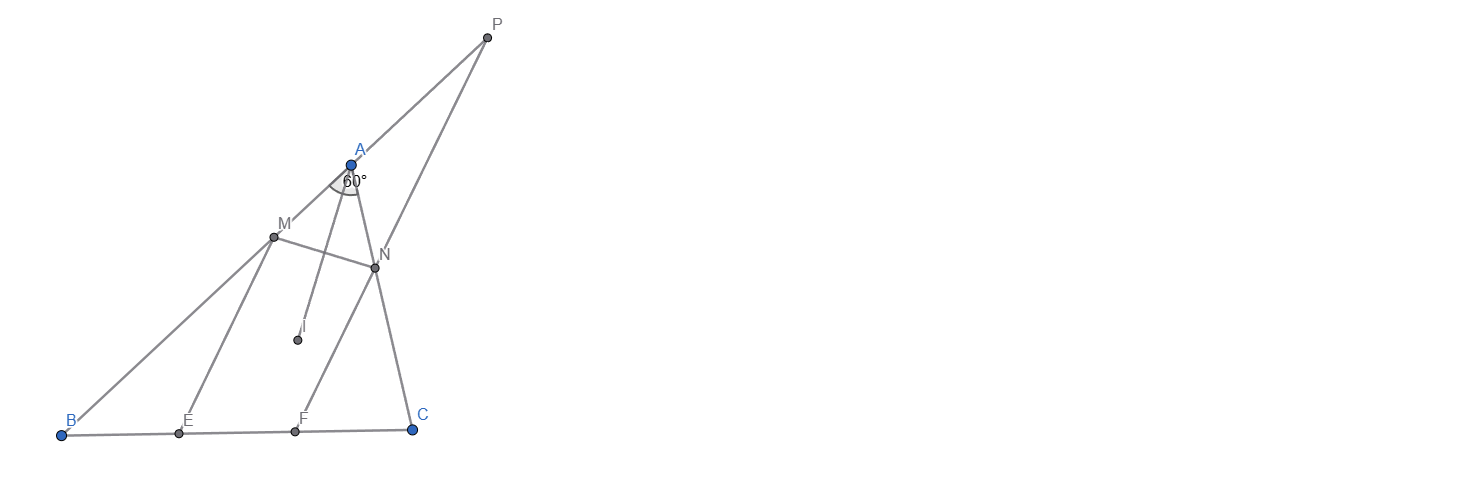
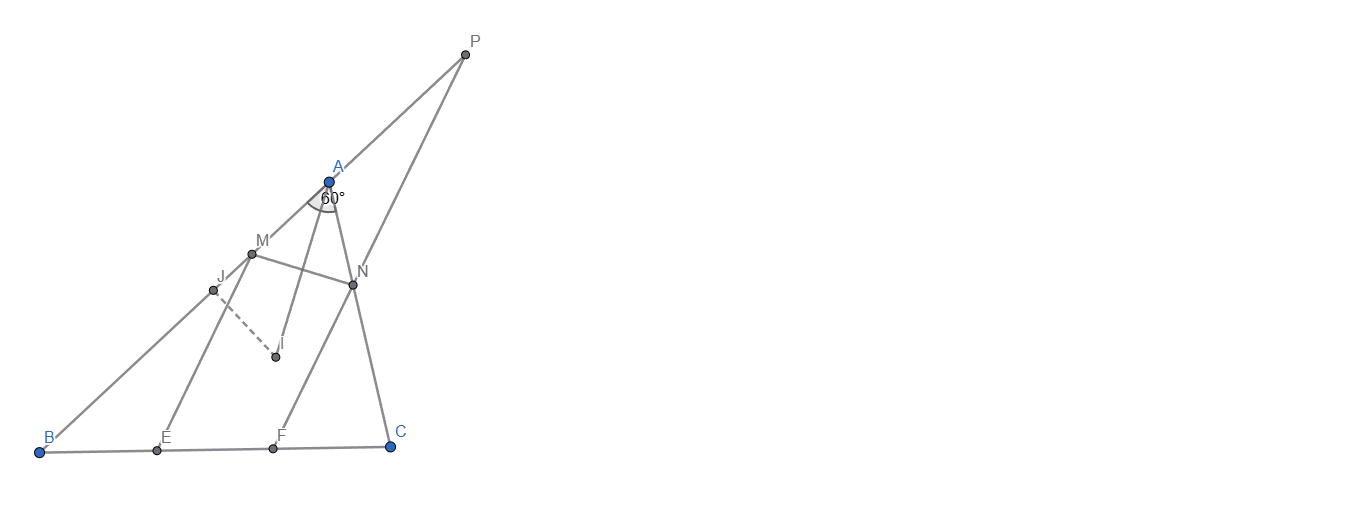
update

Changed region(s): [[0.0306, 0.0621, 0.3673, 0.9317]]

diff --git a/_posts/math/2025-04-09-026.md b/_posts/math/2025-04-09-026.md
@@ -1,0 +1,74 @@
+---
+layout: post
+title: 几何问题的代数解法（1）
+tags: math,education,geometry,algebra
+category: math
+---- 
+
+已知$\triangle ABC$中，$\angle A = 60^\circ$，$I$是$\triangle ABC$的内心（三条角平分线的交点），$AI$的垂直平分线交$AB,AC$于$M,N$。
+
+$E,F$在$B,C$上（顺序是$B,E,F,C$）满足$BE = EF = FC$。
+
+求证：$ME \parallel NF$
+
+![](https://crsando.github.io/images/2025-04-07/017-Ans.png)
+
+***Solution***
+
+*标准答案的做法，这里只写思路，思路有了证明很容易*
+
+把$\triangle MBI$和$\triangle NIC$分别翻到三角形外面去，然后证明$M,N$是新的线段的三等分点即可。
+
+***Solution 2***
+
+![](https://crsando.github.io/images/2025-04-07/017-Ans-2.png)
+
+这里给一个代数感更强的计算做法。
+
+延长$BA, FN$交于点$P$。那么要证明结论，本质上就是证明$BM = MP$即可。
+
+所以核心是计算$AP$的长度。
+
+用面积法（梅涅劳斯定理），不难发现
+
+$$
+    \frac{AP}{PB} \cdot \frac{BF}{FC} \cdot \frac{CN}{NA} = 1
+$$
+
+为了便于叙述，我们定义几个变量。由于有内心$I$，所以我们常规定义$AB = x + y$, $AC = x + z$, $BC = y + z$。
+这里本质是说，取$I$到三边的垂线，把边长分割成了六块（比如图中的$AJ \perp AB$，定义$AJ = x$, $BJ = y$）。利用$\angle A = 60^\circ$计算一下就知道$AM = \frac{2}{3}x$。
+
+那么$AN = \frac{2}{3} x$, $CN = CA - AN = \frac{1}{3}x + z$，所以我们得到
+
+$$
+    \frac{AP}{PB} = \frac{\frac{1}{3}x}{\frac{1}{3}x + z}
+    \implies \frac{AP}{AB} = \frac{1}{3} \cdot \frac{x}{z}
+$$
+
+简化为
+
+$$
+    AP = \frac{(x+y)x}{3z} \implies MP = MA + AP = \frac{x^2 + xy + 2xz}{3z}
+$$
+
+另一方面，$BM = y + \frac{1}{3}x$
+
+所以
+
+$$
+AP - BM = \frac{1}{3z} \Big (
+    x^2 + xy + 2xz - 3yz - xz
+\Big) = \frac{1}{3z} (x^2 + xy + xz - 3yz)
+$$
+
+注意到$\angle A = 60^\circ$，所以由余弦定理，可以知道
+
+$$
+\begin{aligned}
+    & (y+z)^2 = (x+y)^2 + (y+z)^2 - (x+y)(x+z) \\
+    \implies & y^2 + 2yz + z^2 = 2x^2 + 2xy + 2xz + y^2 + z^2 - x^2 - xy - xz - yz \\
+    \implies & 3yz = x^2 + xy + xz \\
+\end{aligned}
+$$
+
+带入，即知道$AP - BM = 0$，即$AP = BM$，得证。
